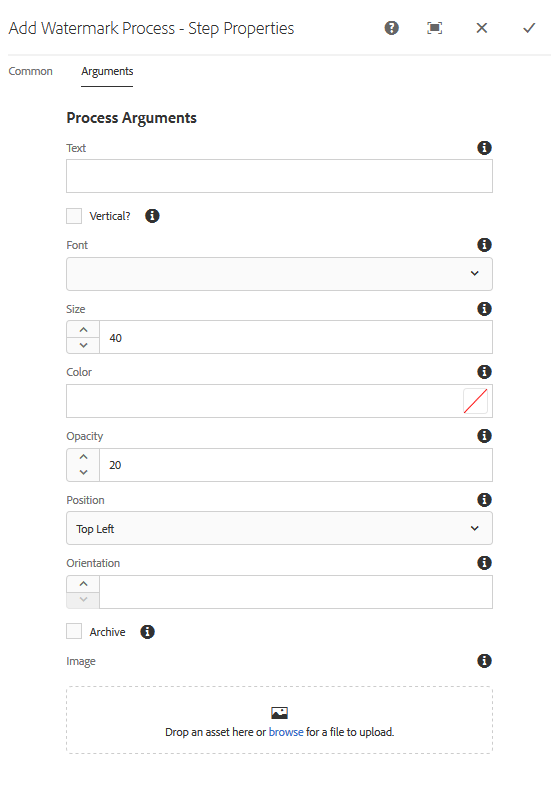
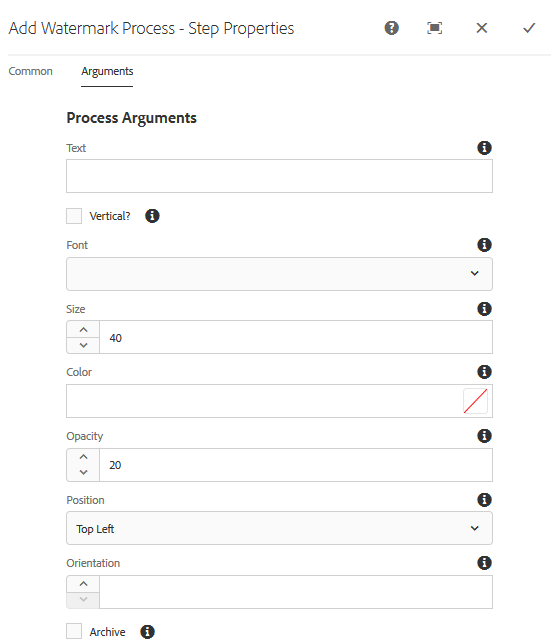
Limitations of asset watermarking via cqdoc-17411

diff --git a/help/assets/watermarking.md b/help/assets/watermarking.md
@@ -1,28 +1,30 @@
 ---
-title: Watermark your images
-description: Use the watermarking feature to add a digital watermark to your PNG AND JPEG images.
+title: Add watermark to your digital assets
+description: Learn how to use the Watermarking feature to add a digital watermark to assets.
 contentOwner: AG
 ---
 
-# Watermark your assets {#watermarking}
+# Watermark your digital assets {#watermarking}
+
+[!DNL Adobe Experience Manager Assets] allows you to add a digital watermark to assets that helps users verify the authenticity and copyright ownership of the assets. [!DNL Experience Manager Assets] supports text to be used as a watermark on PNG and JPEG files.
 
 Adobe Experience Manager (AEM) Assets lets you add a digital watermark to images that helps users verify the authenticity and copyright ownership of the assets. AEM Assets supports text to be used as a watermark on PNG and JPEG files.
 
-To be able to apply watermark on assets, add the [!UICONTROL Watermark] step in the [!UICONTROL DAM Update Asset] workflow.
+To be able to apply watermark on assets, add the watermarking step in the [!UICONTROL DAM Update Asset] workflow.
 
-1. Tap the AEM logo, and go to **[!UICONTROL Tools]** &gt; **[!UICONTROL Workflow]** &gt; **[!UICONTROL Models]**.
+1. Access the [!DNL Experience Manager] user interface, and go to **[!UICONTROL Tools]** &gt; **[!UICONTROL Workflow]** &gt; **[!UICONTROL Models]**.
 1. From the Workflow Models page, select the **[!UICONTROL DAM Update Asset]** workflow and click **[!UICONTROL Edit]**.  
 
 1. From the side panel, drag the **[!UICONTROL Add Watermark]** step and add it to the [!UICONTROL DAM Update Asset] workflow.
 
-   ![Darg add watermark step in the DAM update asset workflow](assets/add_watermark_step_aem_assets.png)
+   ![Drag add watermark step in the DAM update asset workflow](assets/add_watermark_step_aem_assets.png)
 
    >[!NOTE]
    >
    >Place the [!UICONTROL Add Watermark] step anywhere before the [!UICONTROL Process Thumbnail] step.
 
 1. Open the **[!UICONTROL Add Watermark]** step to display its properties.
-1. In the **[!UICONTROL Arguments]** tab, specify valid values in the various fields, including text, font type, size, color, position, orientation, and so on. To confirm the changes, tap/click the Done icon.
+1. In the **[!UICONTROL Arguments]** tab, specify valid values in the various fields, including text, font type, size, color, position, orientation, and so on. To confirm the changes, click **[!UICONTROL Done]**.
 
    ![Provide the arguments in the add watermark step in Assets](assets/arguments_add_watermark_aem_assets.png)
 
@@ -30,3 +32,8 @@ To be able to apply watermark on assets, add the [!UICONTROL Watermark] step in 
 1. From the AEM user interface, upload a sample asset. The watermark appears with the font size, color and so on, at the position that you configured in the above steps.
 
 To watermark PDF documents programmatically or with dynamic information, consider using [AEM Document Services](/help/forms/using/overview-aem-document-services.md) offering.
+
+## Tips and limitations {#tips-limitations}
+
+* Only text-based watermarks are supported. Images are not used as watermarks, even though you can upload images when creating the [!UICONTROL Add Watermark Process].
+* Only PNG and JPEG files are supported to be watermarked. Other asset formats are not watermarked.
